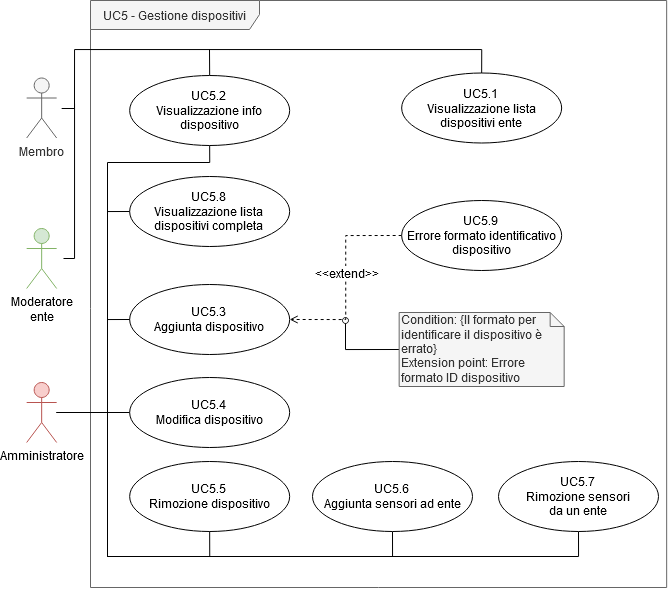
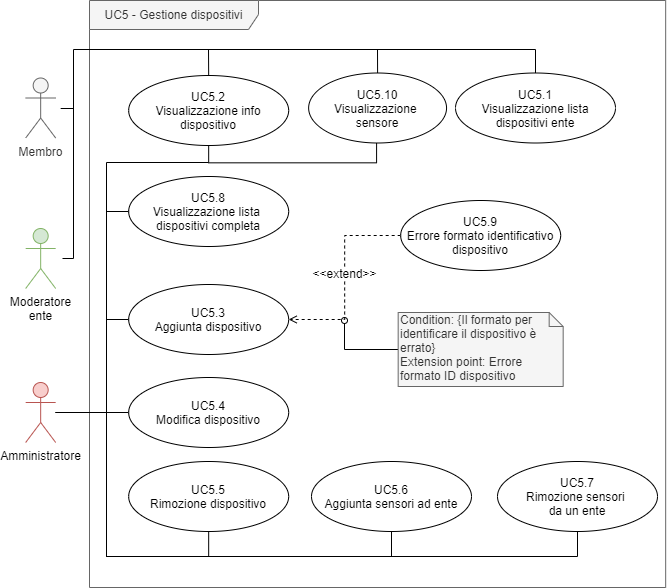
Modificati UC11,24,5,7 con nuovi UC, aggiunti requisiti 78,79,80

diff --git a/esterni/analisi_requisiti/res/sections/Sez4-ClassificazioneRequisiti/ClassificazioneRequisiti.tex b/esterni/analisi_requisiti/res/sections/Sez4-ClassificazioneRequisiti/ClassificazioneRequisiti.tex
@@ -59,11 +59,11 @@ In questa parte, vengono riportati i requisiti del progetto, classificati per ti
 		\sreq{B}{F}{8.5}  	& L'utente autenticato deve poter disattivare l'autenticazione a due fattori tramite \glock{Telegram} & UC 4.2.3 \autism
 		\sreq{B}{F}{8.6}  	& L'utente autenticato deve poter modificare la preferenza di notifica di uno specifico alert, in base a quelli disponibili & UC 4.3, VE\_2020-01-10\_9.2 \autism
 		% info dispositivi
-		\req{A}{F}{9} 		& Il membro e il moderatore ente devono poter visualizzare la lista dei sensori di un dispositivo abilitati al loro ente & UC 5.2 \autism
+		\req{A}{F}{9} 		& Il membro e il moderatore ente devono poter visualizzare la lista dei sensori di un dispositivo abilitati al loro ente & UC 5.2, UC 5.10 \autism
 		\req{A}{F}{10} 		& L'amministratore deve poter visualizzare la lista completa dei sensori di un qualunque dispositivo censito nel sistema & UC 5.8 \autism
-		\req{A}{F}{11}  	& Il membro e il moderatore ente devono poter visualizzare i dati in tempo reale di un sensore abilitato al loro ente & UC 5.2 \autism
+		\req{A}{F}{11}  	& Il membro e il moderatore ente devono poter visualizzare i dati in tempo reale di un sensore abilitato al loro ente & UC 5.2, UC 5.10 \autism
 		\sreq{B}{F}{11.1}   & Il membro e il moderatore ente possono visualizzare i dati di un sensore tramite un grafico & UC 6.2 \autism
-		\req{A}{F}{12} 		& L'amministratore deve poter visualizzare i dati in tempo reale di tutti i sensori appartenenti a un dispositivo censito nel sistema & UC 5.2, VE\_2020-01-10\_9.1 \autism
+		\req{A}{F}{12} 		& L'amministratore deve poter visualizzare i dati in tempo reale di tutti i sensori appartenenti a un dispositivo censito nel sistema & UC 5.2, UC 5.10 VE\_2020-01-10\_9.1 \autism
 		\sreq{B}{F}{12.1}   & L'amministratore deve poter visualizzare i dati di un sensore tramite un grafico & UC 6.2, VE\_2020-01-10\_9.1 \autism
 		\req{A}{F}{13} 		& L'amministratore deve poter visualizzare a quali enti è stata autorizzata la lettura di un sensore & UC 5.2 \autism
 		\req{A}{F}{14} 		& L'amministratore deve poter assegnare a un ente la lettura di un sensore di un qualunque dispositivo censito nel sistema & UC 5.6 \autism
@@ -157,11 +157,14 @@ In questa parte, vengono riportati i requisiti del progetto, classificati per ti
 		\sreq{A}{F}{71.1} 	& La web app deve permettere di vedere grafici e dati da browser in modalità mobile & Capitolato \autism
 		\sreq{B}{F}{71.2} 	& La web app deve permettere di compilare moduli interni da browser in modalità mobile & Capitolato \autism
 		\req{A}{F}{72} 	& \glock{Kafka} deve poter comunicare con i database, con i \glock{gateway} e con le \glock{API} & Capitolato \autism
-		\req{A}{F}{73} 	& Un amministratore deve poter visualizzare i gateway disponibili & Capitolato \autism
-		\req{A}{F}{74} 	& Un amministratore deve poter visualizzare le informazioni dei gateway disponibili & Capitolato \autism
-		\req{A}{F}{75} 	& Un amministratore deve poter creare un nuovo gateway & Capitolato \autism
-		\req{A}{F}{76} 	& Un amministratore deve poter modificare i dati di un gateway & Capitolato \autism
-		\req{A}{F}{77} 	& Un amministratore deve poter rimuovere un gateway & Capitolato \autism
+		\req{A}{F}{73} 	& Un amministratore deve poter visualizzare i gateway disponibili & UC 24.1 \autism
+		\req{A}{F}{74} 	& Un amministratore deve poter visualizzare le informazioni dei gateway disponibili & UC 24.2 \autism
+		\req{A}{F}{75} 	& Un amministratore deve poter creare un nuovo gateway & UC 24.3 \autism
+		\req{A}{F}{76} 	& Un amministratore deve poter modificare i dati di un gateway & UC 24.5 \autism
+		\req{A}{F}{77} 	& Un amministratore deve poter rimuovere un gateway & UC 24.4 \autism
+		\req{A}{F}{78} 	& Un amministratore deve poter inviare una nuova configurazione a un gateway & UC 24.7 \autism
+		\req{C}{F}{79} 	& Un moderatore deve poter ripristinare un utente del suo ente che era stato precedentemente disattivato & UC 7.6 \autism
+		\req{C}{F}{80} 	& Un amministratore deve poter ripristinare un utente che era stato precedentemente disattivato & UC 11.7 \autism
         \caption{Requisiti funzionali con le relative descrizioni e le relative fonti}
 
 		\end{longtable}
@@ -176,7 +179,7 @@ In questa parte, vengono riportati i requisiti del progetto, classificati per ti
 		\begin{itemize}
 			\item \textbf{sistema operativo:} Ubuntu 18.04.3 LTS a 64bit;
 			\item \textbf{processore:} CPU Quad-Core da 2.8GHz;
-			\item \textbf{RAM:} 16GB DDR4;
+			\item \textbf{RAM:} 8GB DDR4;
 			\item \textbf{disco rigido:} SSD da 64GB;
 			\item \textbf{connessione Internet:} 100Mb/s simmetrica.
 		\end{itemize}

diff --git a/esterni/analisi_requisiti/res/sections/Sez3-CasiDUso/uc5.tex b/esterni/analisi_requisiti/res/sections/Sez3-CasiDUso/uc5.tex
@@ -22,7 +22,7 @@
 			\subsubsection{UC 5.1 - Visualizzazione lista dispositivi ente}
 			\begin{itemize}
 				\item \textbf{attori primari:} membro, moderatore ente;
-				\item \textbf{descrizione:} l'utente può visualizzare una lista con ID, nome, numero sensori e nome ente per ogni dispositivo abilitato per il proprio ente;
+				\item \textbf{descrizione:} l'utente può visualizzare una lista con id reale, nome, numero sensori, frequenza di aggiornamento dati e nome gateway per ogni dispositivo abilitato per il proprio ente;
 				\item \textbf{precondizione:} l'utente naviga nella gestione dispositivi del sistema;
 				\item \textbf{postcondizione:} l'utente ha visualizzato i dispositivi;
 				\item \textbf{scenario principale:}
@@ -34,7 +34,7 @@
 			\subsubsection{UC 5.2 - Visualizza info dispositivo}
 			\begin{itemize}
 				\item \textbf{attori primari:} membro, moderatore ente, amministratore;
-				\item \textbf{descrizione:} l'utente può visualizzare ID, nome, frequenza di aggiornamento dei dati e dati dei sensori in forma tabellare o grafica riguardanti il dispositivo selezionato;
+				\item \textbf{descrizione:} l'utente può visualizzare id reale, id logico, nome, frequenza di aggiornamento dei dati, numero di sensori e dati dei sensori (id reale e tipo) riguardanti il dispositivo selezionato;
 				\item \textbf{precondizione:} l'utente naviga nella gestione dispositivi del sistema;
 				\item \textbf{postcondizione:} l'utente ha visualizzato le informazioni del dispositivo selezionato;
 				\item \textbf{scenario principale:}
@@ -235,7 +235,7 @@
 			\subsubsection{UC 5.8 - Visualizzazione lista dispositivi completa}
 			\begin{itemize}
 				\item \textbf{attori primari:} amministratore;
-				\item \textbf{descrizione:} l'utente può visualizzare una lista con ID, nome, numero di sensori e nome dell'ente per ogni dispositivo presente nel sistema;
+				\item \textbf{descrizione:} l'utente può visualizzare una lista con id logico, nome, numero di sensori e frequenza di aggiornamento per ogni dispositivo presente nel sistema;
 				\item \textbf{precondizione:} l'utente naviga nella gestione dispositivi del sistema;
 				\item \textbf{postcondizione:} l'utente ha visualizzato la lista di tutti i dispositivi;
 				\item \textbf{scenario principale:}
@@ -244,4 +244,28 @@
 				\end{enumerate}
 			\end{itemize}
 
-			s
+			\subsubsection{UC 5.9 - Errore formato identificativo dispositivo}
+			\begin{itemize}
+				\item \textbf{attori primari:} moderatore ente, amministratore;
+				\item \textbf{descrizione:} l'utente riceve un errore quando tenta di inserire l'identificativo del dispositivo;
+				\item \textbf{precondizione:} l'utente sta aggiungendo un nuovo dispositivo;
+				\item \textbf{postcondizione:} l'utente visualizza un errore che gli impedisce di procedere;
+				\item \textbf{scenario principale:}
+				\begin{enumerate}
+					\item{l'utente ha compilato il campo \textit{identificativo dispositivo};}
+					\item{l'utente riceve un errore sul formato non valido dell'identificativo del dispositivo.}
+				\end{enumerate}
+			\end{itemize}
+
+			\subsubsection{UC 5.10 - Visualizzazione sensore}
+			\begin{itemize}
+				\item \textbf{attori primari:} membro, moderatore ente, amministratore;
+				\item \textbf{descrizione:} l'utente può vedere i dati in tempo reale di un sensore attraverso un grafico o una tabella con le relative registrazioni;
+				\item \textbf{precondizione:} l'utente sta visualizzando i dispositivi a lui disponibili;
+				\item \textbf{postcondizione:} l'utente visualizza un grafico o una tabella con il dato in tempo reale;
+				\item \textbf{scenario principale:}
+				\begin{enumerate}
+					\item{l'utente seleziona un dispositivo;}
+					\item{l'utente visualizza un grafico di un sensore del dispositivo a lui abilitato.}
+				\end{enumerate}
+			\end{itemize}

diff --git a/esterni/analisi_requisiti/res/sections/Sez3-CasiDUso/CasiDUso.tex b/esterni/analisi_requisiti/res/sections/Sez3-CasiDUso/CasiDUso.tex
@@ -34,11 +34,11 @@
 			\item \textbf{attori primari:} utente autenticato;
 			\item \textbf{descrizione:} l'utente ha eseguito l'autenticazione e vuole visualizzare una dashboard con all'interno le proprie informazioni account:
 			\begin{itemize}
-			 	\item avatar;
 			 	\item nome;
 			 	\item cognome;
 			 	\item mail;
 			 	\item ente di appartenenza;
+			 	\item rango;
 			 	\item indirizzo IP;
 			 \end{itemize}
 			 alcune statistiche del sito:
@@ -173,7 +173,7 @@
 		\subsubsection{UC 13.1 - Amministrazione - Visualizzazione informazioni log utente}
 		\begin{itemize}
 			\item \textbf{attori primari:} amministratore;
-			\item \textbf{descrizione:} l'utente visualizza una entry composta da nome, cognome, azione, data-ora, indirizzo IP, ente e rank degli utenti presenti all'interno del sistema. Le azioni sotto audit sono le seguenti:
+			\item \textbf{descrizione:} l'utente visualizza una entry composta da nome, cognome, ruolo, ente, azione, data-ora, indirizzo IP. Le azioni sotto audit sono le seguenti:
 
 			\begin{itemize}
 				\item login;
@@ -196,6 +196,10 @@
 				\item rimozione dispositivo, con ID dispositivo reale e ID gateway;
 				\item modifica sensori ente e ID ente;
 				\item invio input Telegram, con ID dispositivo e input inviato;
+				\item invio nuova configurazione gateway, con ID del gateway;
+				\item aggiunta nuovo gateway e ID gateway;
+				\item rimozione gateway e ID gateway;
+				\item modifica gateway e ID gateway;
 			\end{itemize}
 
 			\item \textbf{precondizione:} l'utente è autenticato in qualità di amministratore;
@@ -467,6 +471,18 @@
 					\item il sistema sta elaborando la richiesta;
 					\item viene visualizzato un errore che spiega che il nome inserito per il gateway è già stato inserito per un altro gateway.
 				\end{enumerate}
+			\end{itemize}
+
+			\subsubsection{UC 24.7 - Invio configurazione gateway}
+			\begin{itemize}
+				\item \textbf{attori primari:} amministratore;
+				\item \textbf{descrizione:} l'amministratore può decidere di inviare una nuova configurazione al gateway in base alle modifiche effettuate;
+				\item \textbf{precondizione:} l'amministratore naviga nella sezione di gestione dei gateway del sistema;
+				\item \textbf{postcondizione:} l'amministratore ha inviato una nuova configurazione al gateway;
+				\begin{enumerate}
+					\item l'amministratore seleziona un gateway;
+					\item l'amministratore invia la nuova configurazione al gateway.
+				\end{enumerate} 
 			\end{itemize}
 			
 		\subsection{UC 25 - Inserimento credenziali per autenticazione base}

diff --git a/esterni/piano_progetto/res/sections/Sez3-ModelloDiSviluppo/ModelloDiSviluppo.tex b/esterni/piano_progetto/res/sections/Sez3-ModelloDiSviluppo/ModelloDiSviluppo.tex
@@ -45,9 +45,9 @@ Si prevede di andare a svolgere \textbf{12 incrementi} col fine di poter integra
 	Incremento VII	& Implementazione base \glock{bot Telegram} per la ricezione di avvisi e configurazione con le \glock{API}. Implementazione del login per la web app. & RA-F-1 RA-F-1.1 RA-F-1.2 RA-F-2 RA-F-3 RA-F-3.1 RA-F-3.2 RA-F-7 RA-F-8 RA-F-8.1 RA-F-8.2 RA-F-8.3 RB-F-8.4 RB-F-8.5 RA-F-34 RA-F-60 RA-F-61 RA-F-62 \\	\hline
 	Incremento VIII	& Implementazione dei grafici per la web app. &  RB-F-3.3 RA-F-35 RA-F-36 RA-F-37 RA-F-38 RA-F-39 RA-F-39.1 RB-F-39.2 RA-F-40 RA-F-71.1 \\	\hline
 	Incremento IX	& Implementazione della parte utente per la web app. & RA-F-4 RB-F-8.6 RA-F-9 RA-F-11 RB-F-11.1 RA-F-33 RA-F-63 \\	\hline
-	Incremento X	& Implementazione della moderazione per gli enti nella web app. & RA-F-5 RA-F-16 RA-F-17 RB-F-18 RB-F-18.1 RB-F-18.2 RB-F-18.3 RA-F-19 RA-F-20 RA-F-28 RA-F-29 RA-F-30  RC-F-41 RA-F-43 RA-F-44 \\	\hline
+	Incremento X	& Implementazione della moderazione per gli enti nella web app. & RA-F-5 RA-F-16 RA-F-17 RB-F-18 RB-F-18.1 RB-F-18.2 RB-F-18.3 RA-F-19 RA-F-20 RA-F-28 RA-F-29 RA-F-30  RC-F-41 RA-F-43 RA-F-44  RA-F-79 \\	\hline
 	Incremento XI   & Configurazione aggiuntiva del \glock{gateway} con \glock{Kafka}. Implementazione completa delle \glock{API}. & RA-F-51 RA-F-53 RA-F-54 RA-F-59 \\ \hline
-	Incremento XII	& Implementazione invio input con il \glock{bot Telegram} e implementazione amministrazione web app. & RA-F-6 RA-F-10 RA-F-12 RB-F-12.1 RA-F-13 RA-F-14 RA-F-15 RA-F-21 RA-F-22 RA-F-23 RB-F-24 RB-F-24.1 RB-F-24.2 RB-F-24.3 RB-F-24.4 RB-F-24.5 RB-F-24.6 RA-F-25 RA-F-26 RA-F-27 RA-F-31 RA-F-32 RC-F-42 RB-F-44.1 RA-F-45 RA-F-46 RA-F-47 RA-F-48 RA-F-49 RA-F-50 RA-F-52 RA-F-55 RA-F-56 RA-F-57 RA-F-58 RA-F-73 RA-F-74 RA-F-75 RA-F-76 RA-F-77 \\	\hline
+	Incremento XII	& Implementazione invio input con il \glock{bot Telegram} e implementazione amministrazione web app. & RA-F-6 RA-F-10 RA-F-12 RB-F-12.1 RA-F-13 RA-F-14 RA-F-15 RA-F-21 RA-F-22 RA-F-23 RB-F-24 RB-F-24.1 RB-F-24.2 RB-F-24.3 RB-F-24.4 RB-F-24.5 RB-F-24.6 RA-F-25 RA-F-26 RA-F-27 RA-F-31 RA-F-32 RC-F-42 RB-F-44.1 RA-F-45 RA-F-46 RA-F-47 RA-F-48 RA-F-49 RA-F-50 RA-F-52 RA-F-55 RA-F-56 RA-F-57 RA-F-58 RA-F-73 RA-F-74 RA-F-75 RA-F-76 RA-F-77 RA-F-78 RA-F-80 \\	\hline
 
 	\caption{Riassunto degli incrementi pianificati}
 	\end{longtable}

diff --git a/esterni/analisi_requisiti/res/sections/Sez5-Tracciamento/Tracciamento.tex b/esterni/analisi_requisiti/res/sections/Sez5-Tracciamento/Tracciamento.tex
@@ -35,9 +35,9 @@
 					\sreq{B}{F}{8.5} & UC 4.2.3\\ \hline
 					\sreq{B}{F}{8.6} & UC 4.3, VE\_2020-01-10\_9.2\\ \hline
 					% info dispositivi
-					\req{A}{F}{9} & UC 5.2\\ \hline
+					\req{A}{F}{9} & UC 5.2, UC 5.10\\ \hline
 					\req{A}{F}{10} & UC 5.8\\ \hline
-					\req{A}{F}{11} & UC 5.2 \\ \hline
+					\req{A}{F}{11} & UC 5.2, UC 5.10 \\ \hline
 					\sreq{B}{F}{11.1} & UC 6.2\\ \hline
 					\req{A}{F}{12} & UC 5.2, VE\_2020-01-10\_9.1\\ \hline
 					\sreq{B}{F}{12.1} & UC 6.2, VE\_2020-01-10\_9.1\\ \hline
@@ -132,11 +132,14 @@
 					\sreq{B}{F}{71.2} & Capitolato \\ \hline
 					\req{A}{F}{72} & Capitolato \\ \hline
 
-					\req{A}{F}{73} & Capitolato \\ \hline
-					\req{A}{F}{74} & Capitolato \\ \hline
-					\req{A}{F}{75} & Capitolato \\ \hline
-					\req{A}{F}{76} & Capitolato \\ \hline
-					\req{A}{F}{77} & Capitolato \\ \hline
+					\req{A}{F}{73} & UC 24.1 \\ \hline
+					\req{A}{F}{74} & UC 24.2 \\ \hline
+					\req{A}{F}{75} & UC 24.3 \\ \hline
+					\req{A}{F}{76} & UC 24.5 \\ \hline
+					\req{A}{F}{77} & UC 24.4 \\ \hline
+					\req{A}{F}{78} & UC 24.7 \\ \hline
+					\req{C}{F}{79} & UC 7.6 \\ \hline
+					\req{C}{F}{80} & UC 11.7 \\ \hline
 					%prestazionali
 					
 					\req{A}{P}{1} & Interna, VE\_2020-01-10\_9.6, VE\_2020-01-10\_9.7\\ \hline
@@ -218,6 +221,8 @@
 				UC 5.6  & \req{A}{F}{14} \\ \hline
 				UC 5.7  & \req{A}{F}{15} \\ \hline
 				UC 5.8	& \req{A}{F}{10} \\ \hline
+				\multirow{2}{*}{UC 5.10}	& \req{A}{F}{9} \\ 
+											& \req{A}{F}{11} \\ \hline
 				UC 6.1  & \req{A}{F}{35} \\ \hline
 				\multirow{2}{*}{UC 6.2} & \sreq{B}{F}{11.1} \\
 																& \sreq{B}{F}{12.1} \\ \hline
@@ -236,6 +241,7 @@
 				UC 7.4.2	& \sreq{B}{F}{18.2} \\ \hline
 				UC 7.4.3	& \sreq{B}{F}{18.3} \\ \hline
 				UC 7.5  & \req{A}{F}{19} \\ \hline
+				UC 7.6  & \req{C}{F}{79} \\ \hline
 				UC 8.1  & \req{A}{F}{28} \\ \hline
 				UC 8.2  & \req{A}{F}{29} \\ \hline
 				UC 8.3  & \req{A}{F}{30} \\ \hline
@@ -256,6 +262,7 @@
 				UC 11.4.7	&	\sreq{B}{F}{24.6} \\ \hline
 				UC 11.4.5 & \req{A}{F}{25} \\ \hline
 				UC 11.5 & \req{A}{F}{26} \\ \hline
+				UC 11.7 & \req{A}{F}{80} \\ \hline
 				UC 11.2 & \req{A}{F}{27} \\ \hline
 				UC 12.1 & \req{A}{F}{31} \\ \hline
 				UC 12.2 & \req{A}{F}{32} \\ \hline

diff --git a/esterni/analisi_requisiti/res/sections/Sez3-CasiDUso/uc7.tex b/esterni/analisi_requisiti/res/sections/Sez3-CasiDUso/uc7.tex
@@ -170,3 +170,17 @@
 					\item{l'utente ha rimosso l'utente selezionato appartenente al proprio ente dal sistema.}
 				\end{enumerate}
 			\end{itemize}
+
+
+			\subsubsection{UC 7.6 - Ripristino utente nell'ente}
+			\begin{itemize}
+				\item \textbf{attori primari:} moderatore ente;
+				\item \textbf{descrizione:} l'utente ripristina l'utente che era stato disattivato dalla lista degli utenti appartenenti al suo ente;
+				\item \textbf{precondizione:} l'utente naviga nella gestione utenti per l'ente associato e seleziona un utente;
+				\item \textbf{postcondizione:} l'utente ha ripristinato l'utente selezionato appartenente al proprio ente;
+				\item \textbf{scenario principale:}
+				\begin{enumerate}
+					\item{l'utente seleziona un utente appartenente al proprio ente da rimuovere;}
+					\item{l'utente ha ripristinato l'utente selezionato appartenente al proprio ente dal sistema.}
+				\end{enumerate}
+			\end{itemize}

diff --git a/esterni/analisi_requisiti/res/sections/Sez3-CasiDUso/uc11.tex b/esterni/analisi_requisiti/res/sections/Sez3-CasiDUso/uc11.tex
@@ -277,5 +277,19 @@
 				\end{enumerate}
 			\end{itemize}
 
+			\subsubsection{UC 11.7 - Riattivazione utente}
+			\begin{itemize}
+				\item \textbf{attori primari:} amministratore;
+				\item \textbf{descrizione:} l'utente vuole riattivare l'account di un utente attualmente disattivato;
+				\item \textbf{precondizione:} l'utente naviga all'interno della gestione utenti per l'amministrazione;
+				\item \textbf{postcondizione:} l'utente ha riattivato l'account dell'utente selezionato;
+				\item \textbf{scenario principale:}
+				\begin{enumerate}
+					\item{l'utente seleziona un utente tra quelli disponibili da disattivare;}
+					\item{l'utente ha riattivato l'utente selezionato nel sistema.}
+				\end{enumerate}
+			\end{itemize}
+
+
 
 			
